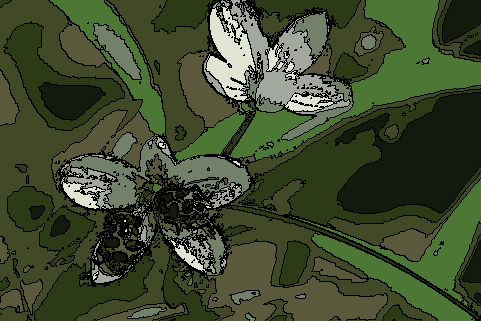
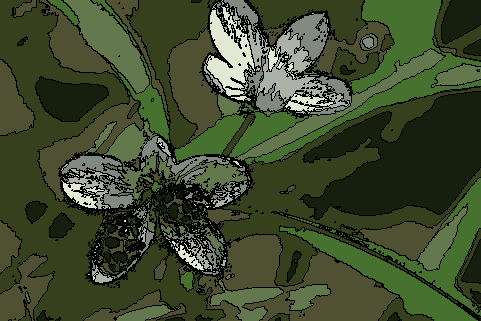
Q5[Updated Part-D code]

diff --git a/Part2_Q5/q5.py b/Part2_Q5/q5.py
@@ -4,6 +4,7 @@ import argparse
 import numpy as np
 import cv2
 import matplotlib.pyplot as plt
+import heapq
 
 def ensure_dir(path):
     if not os.path.exists(path):
@@ -232,12 +233,58 @@ def rms_gradient_rgb(image_bgr):
     rms = np.sqrt(np.mean(grads ** 2, axis=2))
     return rms
 
+def watershed_from_markers(grad, markers):
+    h, w = grad.shape
+    labels = np.zeros((h, w), dtype=np.int32)
+    inqueue = np.zeros((h, w), dtype=bool)
+    neighs = [(-1,-1),(-1,0),(-1,1),(0,-1),(0,1),(1,-1),(1,0),(1,1)]
+    unique_seeds = np.unique(markers)
+    labels[markers > 0] = markers[markers > 0]
+    pq = []
+    ys, xs = np.nonzero(markers > 0)
+    for (y, x) in zip(ys, xs):
+        seed_label = int(markers[y, x])
+        for dy, dx in neighs:
+            ny, nx = y + dy, x + dx
+            if 0 <= ny < h and 0 <= nx < w:
+                if labels[ny, nx] == 0 and not inqueue[ny, nx]:
+                    heapq.heappush(pq, (float(grad[ny, nx]), seed_label, ny, nx))
+                    inqueue[ny, nx] = True
+    while pq:
+        prio, seed_label, y, x = heapq.heappop(pq)
+        inqueue[y, x] = False  # popped
+        if labels[y, x] == 0:
+            labels[y, x] = seed_label
+            for dy, dx in neighs:
+                ny, nx = y + dy, x + dx
+                if 0 <= ny < h and 0 <= nx < w:
+                    if labels[ny, nx] == 0 and not inqueue[ny, nx]:
+                        heapq.heappush(pq, (float(grad[ny, nx]), seed_label, ny, nx))
+                        inqueue[ny, nx] = True
+                    elif labels[ny, nx] > 0 and labels[ny, nx] != seed_label:
+                        labels[y, x] = -1
+        else:
+            if labels[y, x] > 0 and labels[y, x] != seed_label:
+                labels[y, x] = -1
+    return labels
+
 def watershed_segmentation(image_bgr, smooth_sigma=1.0):
     h, w, _ = image_bgr.shape
     ksize = int(6 * smooth_sigma + 1)
     if ksize % 2 == 0:
         ksize += 1
     smooth = cv2.GaussianBlur(image_bgr, (ksize, ksize), smooth_sigma)
+    def rms_gradient_rgb(img):
+        grads = []
+        for c in range(3):
+            channel = img[:, :, c].astype(np.float32)
+            gx = cv2.Sobel(channel, cv2.CV_32F, 1, 0, ksize=3)
+            gy = cv2.Sobel(channel, cv2.CV_32F, 0, 1, ksize=3)
+            mag = np.sqrt(gx * gx + gy * gy)
+            grads.append(mag)
+        grads = np.stack(grads, axis=2)
+        rms = np.sqrt(np.mean(grads ** 2, axis=2))
+        return rms
     grad = rms_gradient_rgb(smooth)
     gray = cv2.cvtColor(smooth, cv2.COLOR_BGR2GRAY)
     _, binary = cv2.threshold(gray, 0, 255, cv2.THRESH_BINARY + cv2.THRESH_OTSU)
@@ -252,9 +299,8 @@ def watershed_segmentation(image_bgr, smooth_sigma=1.0):
     num_markers, markers = cv2.connectedComponents(sure_fg)
     markers = markers + 1
     markers[unknown == 255] = 0
-    img_for_ws = smooth.copy()
-    cv2.watershed(img_for_ws, markers)
-    labels = markers.copy()
+    markers_int = markers.astype(np.int32)
+    labels = watershed_from_markers(grad, markers_int)
     unique = np.unique(labels)
     rng = np.random.RandomState(12345)
     color_map = {}
@@ -270,7 +316,7 @@ def watershed_segmentation(image_bgr, smooth_sigma=1.0):
             out[y, x] = color_map.get(lab, (0, 0, 0))
     boundaries = (labels == -1)
     overlay = image_bgr.copy()
-    overlay[boundaries] = np.array((0, 0, 255), dtype=np.uint8)  
+    overlay[boundaries] = np.array((0, 0, 255), dtype=np.uint8)
     return labels, out, overlay
 
 def part_a_main(img_path, out_dir, k=5, auto_seed = True):
